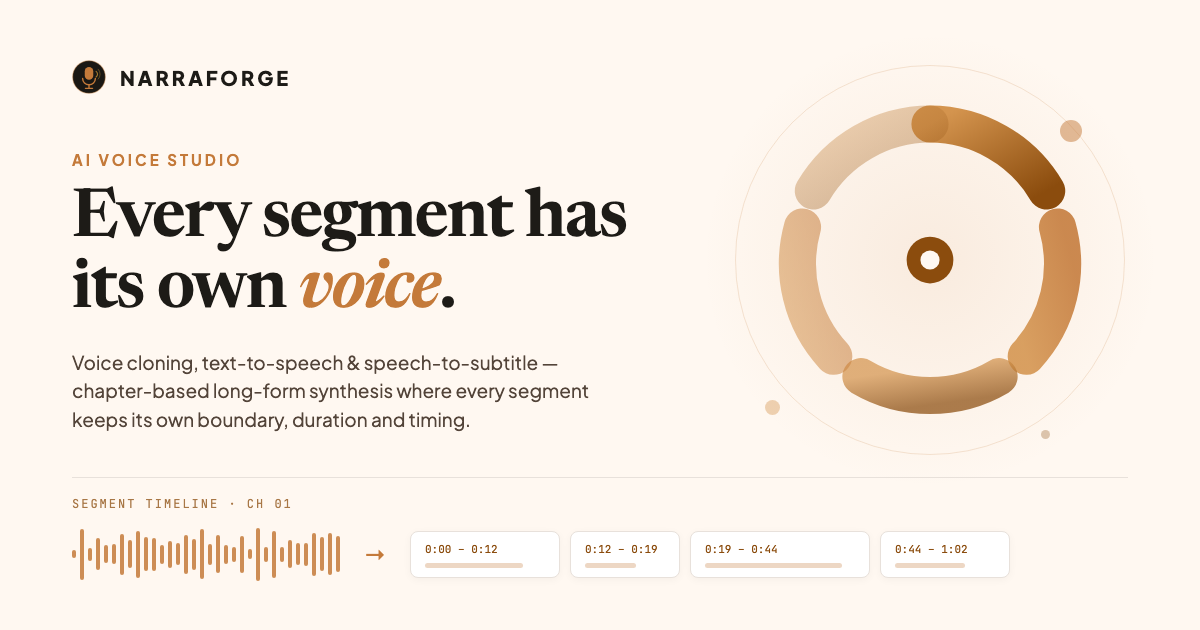
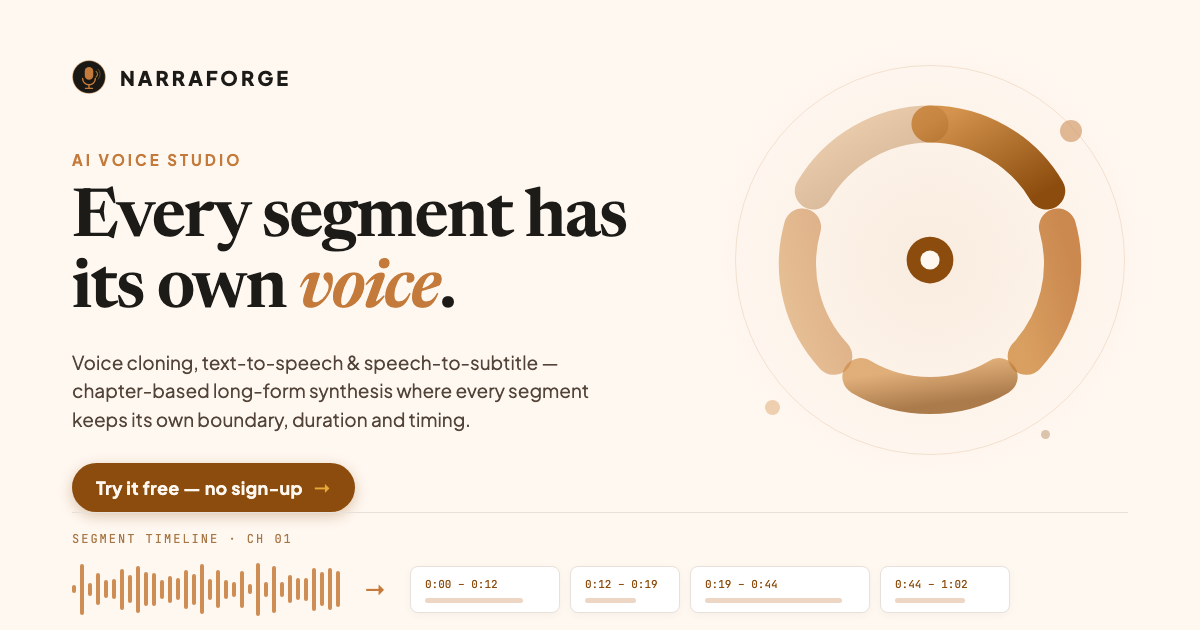
fix(seo): 首页 meta 长度收敛 + og-cover 增加 CTA
- title 79→49 字符（Google ~60 截断线内）
- description 199→152 字符（~160 截断线内）
- og:description/twitter:description 154→107 字符（社交预览 ~125 内）
- og-image.cjs 封面新增「Try it free — no sign-up →」CTA 按钮并重新出图

diff --git a/frontend/index.html b/frontend/index.html
@@ -7,7 +7,7 @@
     <meta name="theme-color" content="#1a1814" />
     <meta
       name="description"
-      content="NarraForge is an AI voice studio: voice cloning, text-to-speech, and speech-to-subtitle. Paste any text and generate natural speech, with chapter-based long-form synthesis and multi-voice management."
+      content="NarraForge is an AI voice studio: voice cloning, text-to-speech, and speech-to-subtitle. Paste any text and generate natural speech, chapter by chapter."
     />
     <link rel="canonical" href="%VITE_SITE_URL%/" />
     <meta property="og:type" content="website" />
@@ -15,7 +15,7 @@
     <meta property="og:title" content="NarraForge — AI Voice Studio" />
     <meta
       property="og:description"
-      content="Voice cloning, text-to-speech, and speech-to-subtitle. Paste text, get natural speech — with chapter-based long-form synthesis and multi-voice management."
+      content="Voice cloning, text-to-speech, and speech-to-subtitle. Paste text, get natural speech — chapter by chapter."
     />
     <meta property="og:url" content="%VITE_SITE_URL%/" />
     <meta property="og:image" content="%VITE_SITE_URL%/og-cover.png" />
@@ -25,7 +25,7 @@
     <meta name="twitter:title" content="NarraForge — AI Voice Studio" />
     <meta
       name="twitter:description"
-      content="Voice cloning, text-to-speech, and speech-to-subtitle. Paste text, get natural speech — with chapter-based long-form synthesis and multi-voice management."
+      content="Voice cloning, text-to-speech, and speech-to-subtitle. Paste text, get natural speech — chapter by chapter."
     />
     <meta name="twitter:image" content="%VITE_SITE_URL%/og-cover.png" />
     <script type="application/ld+json">
@@ -52,7 +52,7 @@
     <link href="https://fonts.googleapis.com/css2?family=Plus+Jakarta+Sans:wght@300;400;500;600;700;800&display=swap" rel="stylesheet" />
     <link href="https://fonts.googleapis.com/css2?family=JetBrains+Mono:wght@400;500;600&display=swap" rel="stylesheet" />
     <link href="https://fonts.googleapis.com/css2?family=Material+Symbols+Outlined:opsz,wght,FILL,GRAD@20..48,100..700,0..1,-50..200&display=swap" rel="stylesheet" />
-    <title>NarraForge — AI Voice Studio: Voice Cloning, Text to Speech, Speech to Subtitle</title>
+    <title>NarraForge — AI Voice Studio: Voice Cloning &amp; TTS</title>
   </head>
   <body>
     <div id="root">
